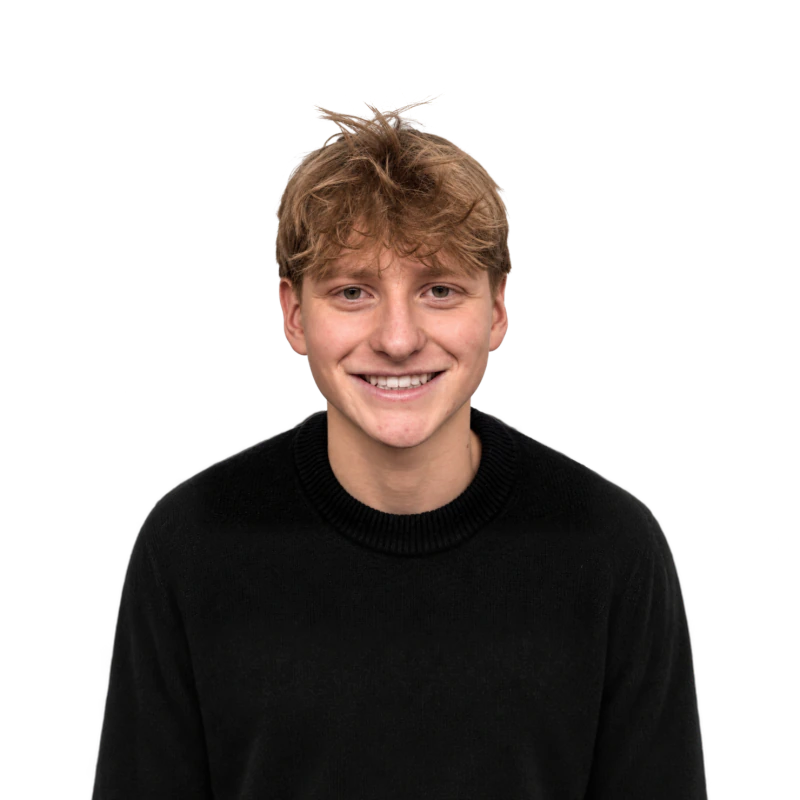
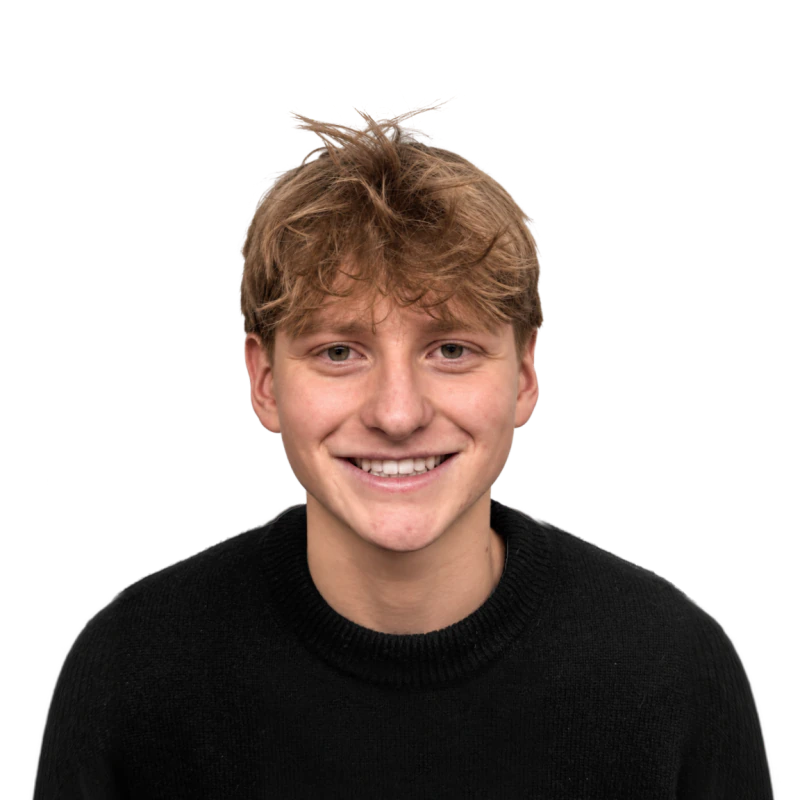
Shorten Maximilian’s portrait and restore the original sweater and collar

Changed region(s): [[0.0312, 0.125, 0.9688, 1.0]]

diff --git a/index.html b/index.html
@@ -447,7 +447,7 @@
     </div>
   </article>
   <article class="team-person" id="maximilian-schwarz" aria-labelledby="maximilian-name">
-    <div class="team-photo"><img src="assets/people/maximilian-schwarz-team-400.webp?v=33cd9fde" srcset="assets/people/maximilian-schwarz-team-96.webp?v=787ca3f9 96w, assets/people/maximilian-schwarz-team-400.webp?v=33cd9fde 400w, assets/people/maximilian-schwarz-team-800.webp?v=94745867 800w" sizes="auto, (max-width: 539px) 36px, 42px" alt="" width="800" height="800" loading="lazy" decoding="async"></div>
+    <div class="team-photo"><img src="assets/people/maximilian-schwarz-team-400.webp?v=0048b017" srcset="assets/people/maximilian-schwarz-team-96.webp?v=642043d1 96w, assets/people/maximilian-schwarz-team-400.webp?v=0048b017 400w, assets/people/maximilian-schwarz-team-800.webp?v=bfdcc576 800w" sizes="auto, (max-width: 539px) 36px, 42px" alt="" width="800" height="800" loading="lazy" decoding="async"></div>
     <div class="team-person-copy">
       <h3 id="maximilian-name" data-i18n-ignore>Maximilian Schwarz</h3>
       <p class="team-role" lang="en" data-i18n-ignore>Strategy &amp; Product</p>

diff --git a/unternehmen.html b/unternehmen.html
@@ -94,7 +94,7 @@
     </div>
   </article>
   <article class="team-person" id="maximilian-schwarz" aria-labelledby="maximilian-name">
-    <div class="team-photo"><img src="assets/people/maximilian-schwarz-team-400.webp?v=33cd9fde" srcset="assets/people/maximilian-schwarz-team-96.webp?v=787ca3f9 96w, assets/people/maximilian-schwarz-team-400.webp?v=33cd9fde 400w, assets/people/maximilian-schwarz-team-800.webp?v=94745867 800w" sizes="auto, (max-width: 650px) 96px, 192px" alt="" width="800" height="800" loading="lazy" decoding="async"></div>
+    <div class="team-photo"><img src="assets/people/maximilian-schwarz-team-400.webp?v=0048b017" srcset="assets/people/maximilian-schwarz-team-96.webp?v=642043d1 96w, assets/people/maximilian-schwarz-team-400.webp?v=0048b017 400w, assets/people/maximilian-schwarz-team-800.webp?v=bfdcc576 800w" sizes="auto, (max-width: 650px) 96px, 192px" alt="" width="800" height="800" loading="lazy" decoding="async"></div>
     <div class="team-person-copy">
       <h3 id="maximilian-name" data-i18n-ignore>Maximilian Schwarz</h3>
       <p class="team-role" lang="en" data-i18n-ignore>Strategy &amp; Product</p>
